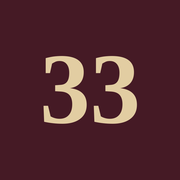
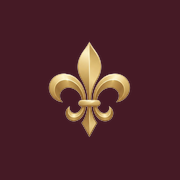
La flor de lis dorada pasa a ser el icono de la casa, y el menú baja a cuatro
EL ICONO. Es el oficial de Iris —lo lleva bordado en la ropa en la foto
que abre la web— y ahora está en todas partes: la barra, la pestaña del
navegador, la pantalla de inicio del móvil, la tarjeta que sale al
compartir el enlace, la puerta de la plataforma y la cabecera de las
facturas.

Va en un solo archivo, no en dos. Antes había uno en color y otro en
blanco porque el sello redondo se perdía sobre el granate del pie. El
dorado no tiene ese problema: es EL color que la casa usa sobre granate
—los botones del bloque de la membresía son exactamente eso— así que se
lee igual de bien en los dos fondos y no hay dos versiones que puedan
acabar diciendo cosas distintas.

Para la pestaña y la pantalla de inicio va sobre el granate y no suelto:
a pelo, el dorado desaparece contra una pestaña clara de Chrome. Y se le
quitó el aire de alrededor que traía el archivo, que a 28 px en la barra
se comía la mitad del icono.

EL MENÚ, CUATRO. Salían seis, numerados del 01 al 06, porque a los
cuatro destinos se les pegaban delante los enlaces sueltos de la página
—«Cómo funciona», «Dudas»—. Con seis pasan dos cosas: el número deja de
ayudar, y los cuatro sitios a los que se puede IR quedan mezclados con
dos saltos dentro de la página en la que ya estás. No es lo mismo
«llévame a los cursos» que «bájame a las dudas».

Arriba, los cuatro destinos y nada más. Los de la página bajan al pie
del menú bajo el rótulo «En esta página», junto al idioma y al aviso
[…]

Changed region(s): [[0.2222, 0.2222, 0.7778, 0.7778]]

diff --git a/apps/web/components/Nav.tsx b/apps/web/components/Nav.tsx
@@ -68,7 +68,24 @@ export default function Nav({
     { href: '/cursos', label: 'Cursos y talleres' },
     { href: '/membresia', label: 'La comunidad' },
   ];
-  const enlaces = [...extra, ...fijos];
+  /*
+   * LA LISTA GRANDE SON CUATRO. SIEMPRE CUATRO.
+   *
+   * Antes se le pegaban delante los enlaces sueltos de cada página —«Cómo
+   * funciona», «Dudas»— y el menú salía con seis, numerados del 01 al 06. Con
+   * seis pasan dos cosas: el número deja de ayudar (nadie cuenta hasta seis en
+   * un menú) y, sobre todo, los cuatro sitios a los que se puede IR quedan
+   * mezclados con dos saltos dentro de la página en la que ya estás. No es lo
+   * mismo «llévame a los cursos» que «bájame a las dudas», y una lista que los
+   * pone al mismo nivel obliga a leerlos todos para distinguirlos.
+   *
+   * Ahora arriba van los cuatro destinos y nada más. Los de la página bajan al
+   * pie del menú, con su rótulo, donde se entiende de un vistazo que son otra
+   * cosa. Y el tope no depende de que nadie se pase: la lista grande es
+   * `fijos`, así que aunque una página mande cinco enlaces sueltos, arriba
+   * siguen saliendo cuatro.
+   */
+  const enlaces = fijos;
 
   return (
     <>
@@ -130,6 +147,31 @@ export default function Nav({
           </ul>
 
           <div className="menu-pie">
+            {extra.length > 0 && (
+              <div className="menu-pagina">
+                <span>En esta página</span>
+                <div>
+                  {extra.map((l) =>
+                    l.href.startsWith('#') ? (
+                      <a
+                        key={l.href + l.label}
+                        href={l.href}
+                        onClick={() => {
+                          setAbierto(false);
+                          l.onClick?.();
+                        }}
+                      >
+                        {l.label}
+                      </a>
+                    ) : (
+                      <Link key={l.href + l.label} href={l.href} onClick={() => setAbierto(false)}>
+                        {l.label}
+                      </Link>
+                    ),
+                  )}
+                </div>
+              </div>
+            )}
             {conIdiomas && (
               <div className="menu-idiomas">
                 <span>Idioma</span>

diff --git a/apps/plataforma/src/components/despacho/HojaFactura.tsx b/apps/plataforma/src/components/despacho/HojaFactura.tsx
@@ -181,9 +181,11 @@ export default function HojaFactura({ f, marca }: { f: Factura; marca: string })
           LA BANDA. Es lo que da el peso de arriba y lo que hace que se sepa qué
           papel es éste antes de leer nada.
 
-          El logo va en blanco sobre el granate —`logo-33-blanco.png`, que existe
-          justamente para esto— y no el redondo de color: sobre vino oscuro, la
-          foto recortada en círculo se lee como una pegatina pegada encima.
+          El icono es la flor de lis dorada, que es el oficial de Iris. Sobre el
+          granate se lee sin necesitar una versión aparte en blanco: el dorado
+          ES el color que la casa usa sobre vino. Antes había un sello redondo
+          de color que, sobre vino oscuro, se leía como una pegatina pegada
+          encima.
       */}
       <div
         style={css(
@@ -196,7 +198,7 @@ export default function HojaFactura({ f, marca }: { f: Factura; marca: string })
       >
         <div style={css("display:flex;align-items:center;gap:13px;flex:1 1 220px;min-width:0;")}>
           {/* eslint-disable-next-line @next/next/no-img-element */}
-          <img src="/logo-33-blanco.png" alt="" style={css("width:44px;height:44px;flex:none;object-fit:contain;opacity:.95;")} />
+          <img src="/flor-de-lis.png" alt="" style={css("width:44px;height:44px;flex:none;object-fit:contain;opacity:.95;")} />
           <div style={css("min-width:0;")}>
             <div style={css("font-family:var(--font-display);font-size:17px;font-weight:500;line-height:1.2;letter-spacing:-.01em;")}>
               {marca}

diff --git a/apps/web/content/site.ts b/apps/web/content/site.ts
@@ -15,8 +15,21 @@ export const PENDIENTE = 'PENDIENTE';
  * LOGO_COLOR va sobre el papel blanco del informe: conserva los colores.
  * Si falta el archivo, la página y el informe salen igual, solo que sin símbolo.
  */
-export const LOGO = '/images/logo-33-blanco.png';
-export const LOGO_COLOR = '/images/logo-33.png';
+/*
+ * LA FLOR DE LIS DORADA es el icono oficial de Iris, y va sola en los dos
+ * sitios: sobre el papel y sobre el granate.
+ *
+ * Antes eran dos archivos —uno en color y otro en blanco— porque el sello
+ * antiguo se perdía sobre el granate del pie. El dorado no tiene ese problema:
+ * es EL color que la casa usa sobre granate (los botones del bloque de la
+ * membresía son exactamente eso), así que se lee igual de bien en los dos
+ * fondos y no hay dos versiones que puedan acabar diciendo cosas distintas.
+ *
+ * Las dos constantes se quedan porque `Marca` sabe pedir una u otra según el
+ * fondo, y el día que haya una versión de una tinta se cambia sólo aquí.
+ */
+export const LOGO = '/images/flor-de-lis.png';
+export const LOGO_COLOR = '/images/flor-de-lis.png';
 
 /**
  * FOTOS DE IRIS

diff --git a/apps/web/app/globals.css b/apps/web/app/globals.css
@@ -3933,3 +3933,36 @@ body[data-nav-claro='si'] .sello-color {
     justify-self: center;
   }
 }
+
+/* ---------------------------------------------------------------------------
+   LOS ENLACES DE LA PÁGINA, EN EL PIE DEL MENÚ
+
+   Mismo sitio y mismo tono que el idioma y el aviso legal: son cosas de apoyo,
+   no destinos. Arriba, en la lista numerada, sólo van los cuatro sitios a los
+   que se puede ir.
+   --------------------------------------------------------------------------- */
+.menu-pagina {
+  display: flex;
+  flex-direction: column;
+  gap: 8px;
+}
+.menu-pagina > span {
+  font-size: var(--rotulo-tam);
+  font-weight: var(--rotulo-peso);
+  letter-spacing: var(--rotulo-esp);
+  text-transform: uppercase;
+  color: var(--tx-3);
+}
+.menu-pagina div {
+  display: flex;
+  gap: 16px;
+  flex-wrap: wrap;
+}
+.menu-pagina a {
+  font-size: 15px;
+  font-weight: 500;
+  color: var(--tx-2);
+}
+.menu-pagina a:hover {
+  color: var(--oro-tinta);
+}

diff --git a/apps/plataforma/src/components/Puerta.tsx b/apps/plataforma/src/components/Puerta.tsx
@@ -74,7 +74,7 @@ export default function Puerta() {
         transition={{ duration: 0.7, ease: CURVA }}
       >
         <div className="puerta-sello">
-          <Image src="/logo-33-blanco.png" alt="" width={62} height={62} priority />
+          <Image src="/flor-de-lis.png" alt="" width={62} height={62} priority />
           <span className="puerta-marca">Escuela de Sabiduría 33</span>
         </div>
 
